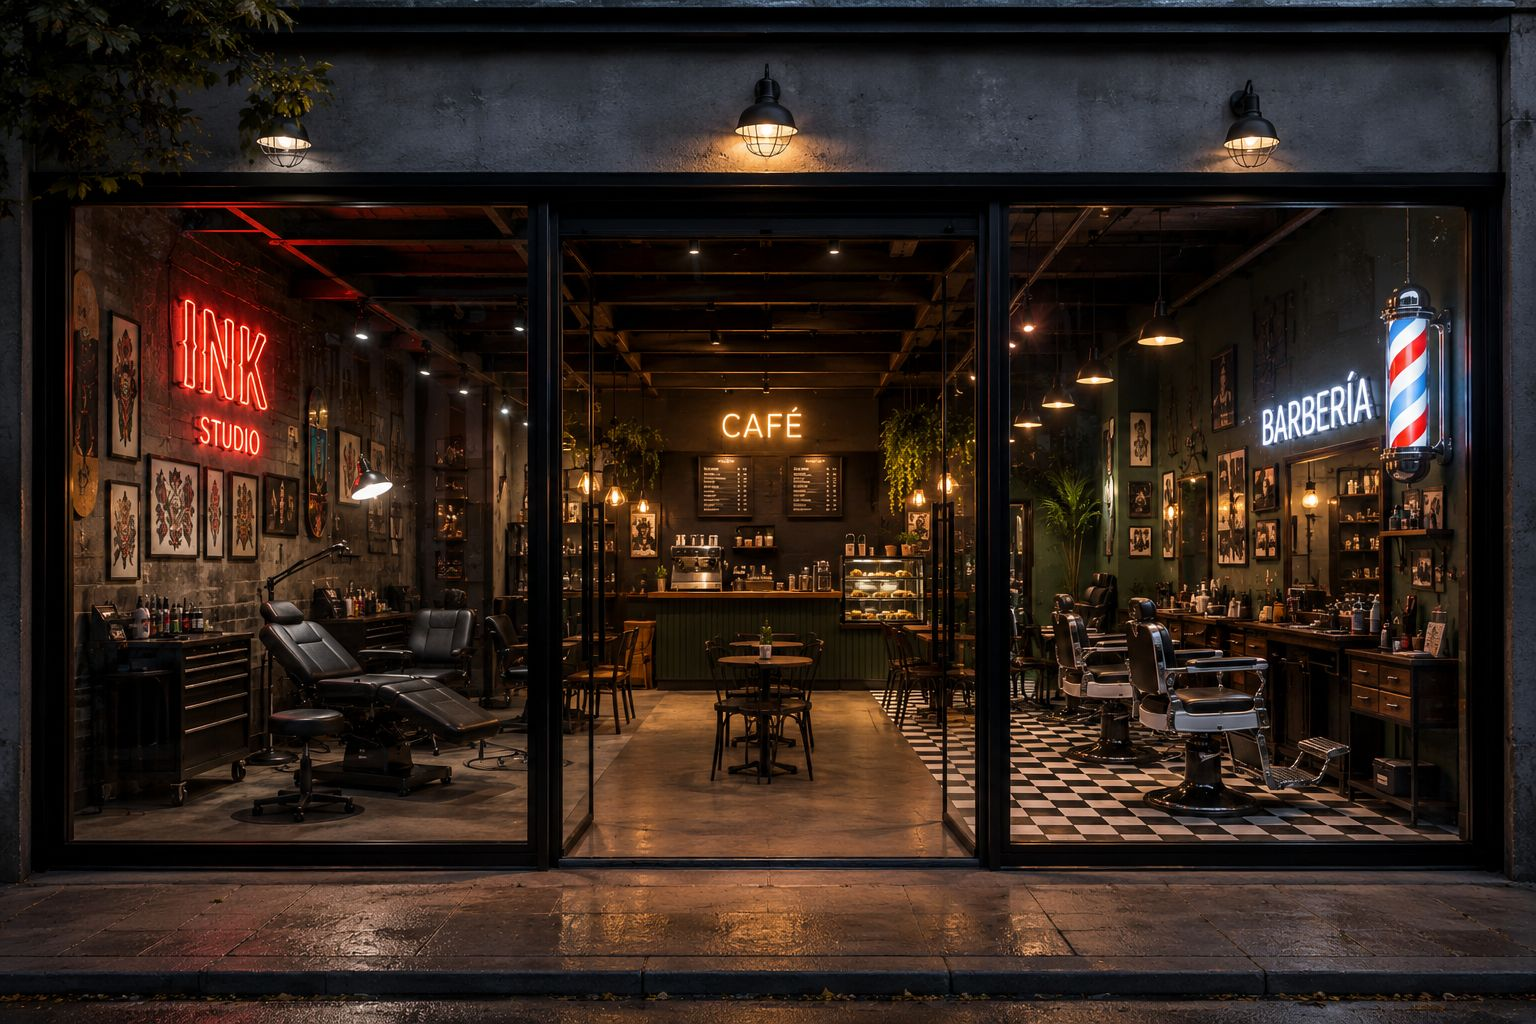
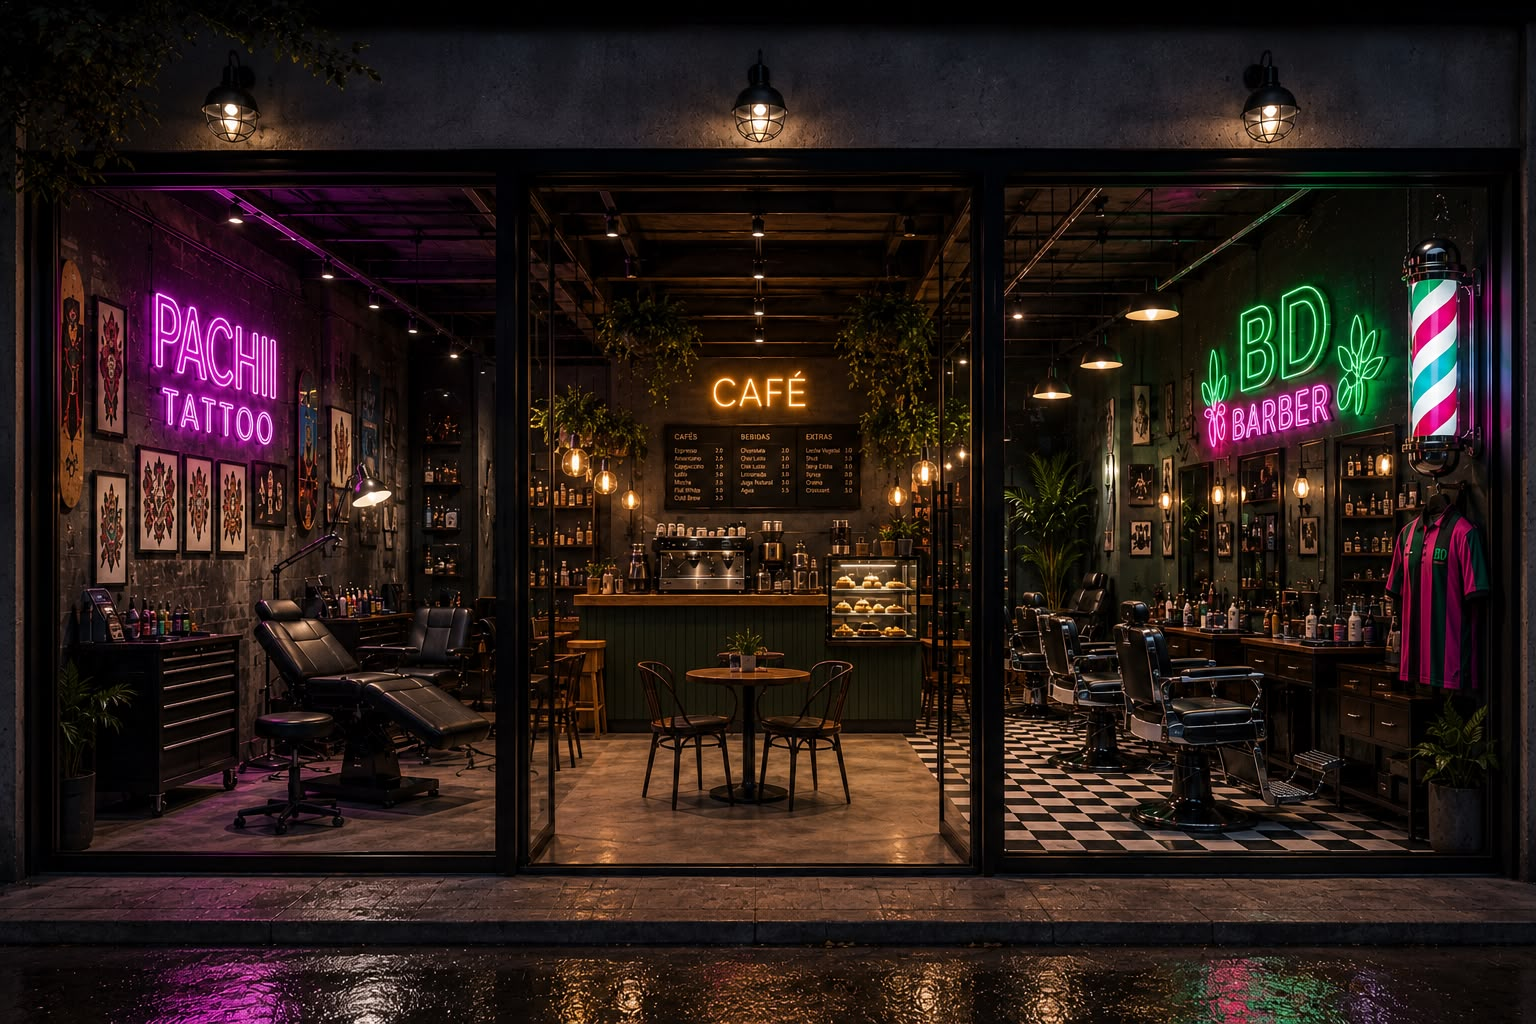
v1.04

diff --git a/style.css b/style.css
@@ -11,10 +11,13 @@ body{
     --orange: #ff7300;
     --rose: #f88181;
     --red: #ff0000;
+    --violet: #d300ff;
+    --light-violet: #EA82FF;
+    --green: #61ff29;
+    --light-green: #B8FF98;
 }
 .site-header {
     padding: 0 20px;
-    position: fixed;
     display: grid;
     align-items: center;
     width: 100%;
@@ -22,6 +25,7 @@ body{
     grid-template-columns: 1fr 1fr 1fr;
     box-sizing: border-box;
     z-index: 1000;
+    position: absolute;
 }
 .logo{
     width: clamp(20px, 1.8vw, 40px);
@@ -41,16 +45,37 @@ body{
 .menu a{
     text-align: center;
     font-family: "Cinzel", serif;
-    font-size: clamp(13px, 0.7vw, 28px);
-    color: var(--gold);
-    text-shadow: 
-    0px 0px 9px var(--orange),
-    0px 0px 10px var(--orange);
+    font-size: clamp(11px, 0.7vw, 28px);
     text-decoration: none;
     padding: 0 15px;
     text-transform: uppercase;
     font-weight: bold;
 }
+.menu-propuesta{
+    color: var(--gold);
+    text-shadow: 
+    0px 0px 9px var(--orange),
+    0px 0px 10px var(--orange);
+}
+.menu-cafe{
+    color: var(--gold);
+    text-shadow: 
+    0px 0px 9px var(--orange),
+    0px 0px 10px var(--orange);
+}
+.menu-barber{
+    color: var(--light-green);
+    text-shadow: 
+    0px 0px 9px var(--green),
+    0px 0px 10px var(--green);
+}
+.menu-tattoo{
+    color: var(--light-violet);
+    text-shadow: 
+    0px 0px 9px var(--violet),
+    0px 0px 10px var(--violet);
+}
+
 .main-container {
     position: relative;
     width: 100%;
@@ -65,6 +90,8 @@ body{
     filter: brightness(0.3);
     object-fit: cover;
     position: absolute;
+    animation:zoom 25s ease-in-out infinite alternate;
+
 }
 .site-title{ 
     text-align: center;
@@ -76,9 +103,10 @@ body{
     0px 0px 10px var(--orange);
     text-transform: uppercase;
     position: absolute;
-    top: 44%;
+    top: 42%;
     left: 50%;
     transform: translate(-50%, -50%);
+    animation: neon-flicker 8s infinite;
 }
 .site-subtitle{
     text-align: center;
@@ -86,11 +114,87 @@ body{
     font-size: clamp(10px, 2vw, 20px);
     color: var(--rose);
     text-shadow: 
-    0px 0px 9px var(--red),
-    0px 0px 10px var(--red);
+    0px 0px 8px var(--red),
+    0px 0px 12px var(--red),
+    0px 0px 20px var(--red);
     text-transform: uppercase;
     position: absolute;
-    top: 52%;
+    top: 50%;
     left: 50%;
     transform: translate(-50%, -50%);
+}
+@keyframes neon-flicker{
+
+    /* Encendido normal */
+    0%, 70%, 100%{
+        opacity:1;
+        color: var(--gold);
+
+        text-shadow:
+            0 0 5px #ffb347,
+            0 0 10px #ffb347,
+            0 0 20px #ff9900,
+            0 0 40px #ff7700,
+            0 0 80px #ff5500;
+    }
+
+    /* Empieza a fallar */
+    71%{
+        opacity:.4;
+    }
+
+    /* Apagado */
+    72%,73%{
+        opacity:0;
+        color:transparent;
+        text-shadow:none;
+    }
+
+    /* Vuelve un instante */
+    74%{
+        opacity:1;
+        color:var(--gold);
+
+        text-shadow:
+            0 0 8px #ffd17d,
+            0 0 20px #ffb347,
+            0 0 45px #ff9900,
+            0 0 80px #ff7700;
+    }
+
+    /* Otro fallo */
+    75%{
+        opacity:0;
+        color:transparent;
+        text-shadow:none;
+    }
+
+    /* Ya queda estable */
+    76%,100%{
+        opacity:1;
+        color: var(--gold);
+
+        text-shadow:
+            0 0 5px #ffb347,
+            0 0 10px #ffb347,
+            0 0 20px #ff9900,
+            0 0 40px #ff7700,
+            0 0 80px #ff5500;
+    }
+
+}
+@keyframes zoom{
+
+from{
+
+transform:scale(1);
+
+}
+
+to{
+
+transform:scale(1.04);
+
+}
+
 }

diff --git a/index.html b/index.html
@@ -16,10 +16,10 @@
             <img src="img/logo.png" alt="Logo Cayo Perico" class="logo">
         </a>
         <div class="menu">
-            <a href="menu.html" class="menu-item">Menú</a>
-            <a href="historia.html" class="menu-item">Historia</a>
-            <a href="marcas.html" class="menu-item">Marcas</a>
-            <a href="contacto.html" class="menu-item">Contacto</a>
+            <a href="tattoo.html" class="menu-item menu-tattoo">Tattoo</a>
+            <a href="cafeteria.html" class="menu-item menu-cafe">Café</a>
+            <a href="barberia.html" class="menu-item menu-barber">Barbería</a>
+        </div>
     </header>
     <section class="main-container">
         <img src="img/background.jpeg" alt="Cayo Perico" class="main-image">